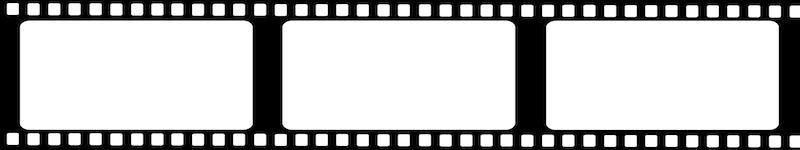
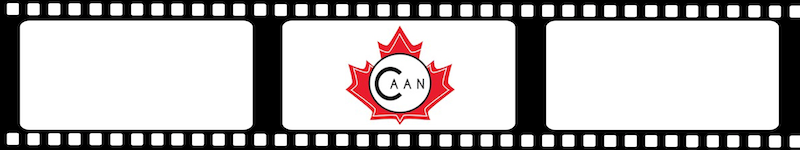
facebook like

Changed region(s): [[0.4062, 0.1867, 0.5938, 0.8267]]

diff --git a/main/assets/js/landingpage.js b/main/assets/js/landingpage.js
@@ -1,14 +1,12 @@
 function generateVideoTags(data, url)
 {
 	var outputVideo = '';
-	// outputVideo += "<div class=\"col-sm-4 col-lg-4 col-md-4\"><div class=\"thumbnail\"><div class=\"span6\"><div class=\"flex-video widescreen\"><iframe src=\'";
 	outputVideo += "<div class=\"col-sm-4 col-lg-4 col-md-4\"><div class=\"thumbnail\"><div class=\"span6\"><div class=\"flex-video widescreen\">";
 	var replace = /<iframe class='sproutvideo-player' src='/gi;
 	var link = data.link.replace(replace, "<iframe class='sproutvideo-player' src='http:");
 	replace = /type=sd'/gi;
 	link = data.link.replace(replace, "type=sd&amp;regularColorTop=960000&amp;regularColorBottom=d70000'");
 	outputVideo += link;
-	// outputVideo += "\' allowfullscreen></iframe></div><div class=\"caption\"><h4 class=\"pull-right\"></h4><h4><a href=\"#\">" + data.name + "</a></h4><p>" + data.description +  "</p></div><div class=\"ratings\"><p class=\"pull-right\">15 reviews</p><span class=\"glyphicon glyphicon-star\"></span><span class=\"glyphicon glyphicon-star\"></span><span class=\"glyphicon glyphicon-star\"></span><span class=\"glyphicon glyphicon-star\"></span></p></div></div></div></div>";
 	outputVideo += "</div><div class=\"caption\"><h4 class=\"pull-right\"></h4><h4><a href=\"";
 	outputVideo += url + "/video_controller/build_single_video_page/" + data.v_id;
 	outputVideo +=	"\">" + data.name + "</a></h4><p>" + data.description +  "</p>";
@@ -20,11 +18,8 @@ function generateVideoTags(data, url)
 	// end .caption div
 
 	// add like button below 
-	//outputVideo += "<div class=\"fb-like\" data-href=\"";
-	//outputVideo += "https://developers.facebook.com/docs/plugins/\"";
-
-	//outputVideo += "data-layout=\"button\" data-action=\"like\" data-show-faces=\"true\" data-share=\"true\"></div>";
-
+	//outputVideo += "<div class=\"fb-like\" data-href=\"http://caanapp.ca/caan/main/index.php/video_controller/build_single_video_page/" + data.v_id + "\" data-width=\"20\" data-layout=\"button_count\" data-action=\"like\" data-show-faces=\"true\" data-share=\"true\"></div>";
+	outputVideo += "<iframe src=\"//www.facebook.com/plugins/like.php?href=http%3A%2F%2Fcaanapp.ca/caan/main/index.php/video_controller/build_single_video_page/" + data.v_id + "&amp;width=25&amp;layout=button_count&amp;action=like&amp;show_faces=true&amp;share=true&amp;height=21&amp;appId=129704493787021\" scrolling=\"no\" frameborder=\"0\" style=\"border:none; overflow:hidden; width:100%; height:21px;\" allowTransparency=\"true\"></iframe>";
 	// rating reviews 
 	outputVideo += "<div class=\"ratings\"><p class=\"pull-right\">15 reviews</p><span class=\"glyphicon glyphicon-star\"></span><span class=\"glyphicon glyphicon-star\"></span><span class=\"glyphicon glyphicon-star\"></span><span class=\"glyphicon glyphicon-star\"></span></p></div></div></div></div>";
 	// console.log(link);

diff --git a/main/application/views/main_page.html b/main/application/views/main_page.html
@@ -23,17 +23,15 @@
 </head>
 
 <body>
-    <script src="http://code.jquery.com/jquery.js"></script>
-    <div id="fb-root"></div>
-    <script>
-    // (function(d, s, id) {
-    //   var js, fjs = d.getElementsByTagName(s)[0];
-    //   if (d.getElementById(id)) return;
-    //   js = d.createElement(s); js.id = id;
-    //   js.src = "//connect.facebook.net/en_US/sdk.js#xfbml=1&version=v2.0";
-    //   fjs.parentNode.insertBefore(js, fjs);
-    // }(document, 'script', 'facebook-jssdk'));
-    </script>
+
+<div id="fb-root"></div>
+<script>(function(d, s, id) {
+  var js, fjs = d.getElementsByTagName(s)[0];
+  if (d.getElementById(id)) return;
+  js = d.createElement(s); js.id = id;
+  js.src = "//connect.facebook.net/en_US/sdk.js#xfbml=1&appId=173428222726166&version=v2.0";
+  fjs.parentNode.insertBefore(js, fjs);
+}(document, 'script', 'facebook-jssdk'));</script>
 
     <nav class="navbar navbar-inverse navbar-fixed-top" role="navigation">
         <div class="container">
@@ -45,7 +43,7 @@
                     <span class="icon-bar"></span>
                 </button>
                 <a class="navbar-brand" href="<?php echo site_url() ?>">
-                 <img style="max-width:100px; margin-top: -3px;"
+                 <img style="max-width:100px; margin-top: -5px;"
              src="<?php echo base_url() ?>assets/img/home.jpg"></a>
             </div>
 
@@ -91,6 +89,7 @@
                         <a href="#" class="list-group-item">Authentic Dragon Bones</a>
                     </div> -->
             </div>
+            
 
             <div class="col-md-9">
 
@@ -187,7 +186,9 @@
             <div class="row">
                 <div class="col-lg-12">
                     <p>© 2014 Canadian Amateur Athletes Network</a>
-                    </p>	
+                    
+                    </p>
+                    <div class="fb-like" data-href="http://caanapp.ca" data-width="20" data-layout="button_count" data-action="like" data-show-faces="true" data-share="true"></div>	
                 </div>
             </div>
         </footer>
@@ -207,7 +208,7 @@
 		window.onload = load(url);
 	</script>
 	<?php //echo $url ?>
-
+	
 	
 </body>
 

diff --git a/main/assets/css/shop-homepage.css b/main/assets/css/shop-homepage.css
@@ -54,5 +54,6 @@ footer {
   padding-left: 9px;
   padding-top: 0px;
   margin-top: 0px;
+  width: 100%;
 }
 

diff --git a/main/application/controllers/account.php b/main/application/controllers/account.php
@@ -43,7 +43,7 @@
 		 */
 		public function _facebook_login()
 		{
-			$redirect_url = "http://caanapp.ca/caan/main/";
+			$redirect_url = "http://localhost/htdocs/caan/main";
 			
 			Facebook\FacebookSession::setDefaultApplication($this->appId, $this->appSecret);
 			$this->fb_helper = new Facebook\FacebookRedirectLoginHelper($redirect_url, $this->appId, $this->appSecret);
@@ -230,7 +230,7 @@
 		function createNew() {
 			$this->load->library('form_validation');
 			$this->form_validation->set_rules('username', 'Username', 'required|is_unique[users.user_name]');
-			$this->form_validation->set_rules('password', 'Password', 'required');
+			$this->form_validation->set_rules('password', 'Password', 'required|min_length[4]|max_length[8]');
 			$this->form_validation->set_rules('first', 'First', "required");
 			$this->form_validation->set_rules('last', 'last', "required");
 			$this->form_validation->set_rules('email', 'Email', "required|is_unique[users.email]");

diff --git a/main/application/views/Account/register_form.php b/main/application/views/Account/register_form.php
@@ -79,7 +79,7 @@
 <input type="text" class="form-control" placeholder="Last Name" name="last" required autofocus>
 <input type="email" class="form-control" placeholder="Email" name="email" required autofocus>
 <input type="text" class="form-control" placeholder="User Name" name="username" required autofocus>
-<input type="password" class="form-control" placeholder="password" name="password" required>
+<input type="password" class="form-control" placeholder="Password (4-8 characters)" name="password" required>
 <!-- <textarea> creates a multiline textbox -->
 <textarea class="form-control" placeholder="About Me" name = "about_me_text" rows = "4" cols = "36" autofocus></textarea>
 <button class="btn btn-lg btn-default btn-block" type="submit">Register</button>

diff --git a/main/application/config/routes.php b/main/application/config/routes.php
@@ -38,7 +38,8 @@
 |
 */
 
-// $route['default_controller'] = "upload_test";
+//$route['videos/(:num)'] = "video_controller/build_single_video_page/$1";
+
 $route['default_controller'] = "main_page";
 
 $route['404_override'] = '';

diff --git a/main/application/controllers/upload.php b/main/application/controllers/upload.php
@@ -131,6 +131,7 @@ class Upload extends CI_Controller {
 		$config['max_height']  = '0';
 
 		$this->load->library('upload', $config);
+		form_open_multipart();
 
 		if ( ! $this->upload->do_upload())
 		{
